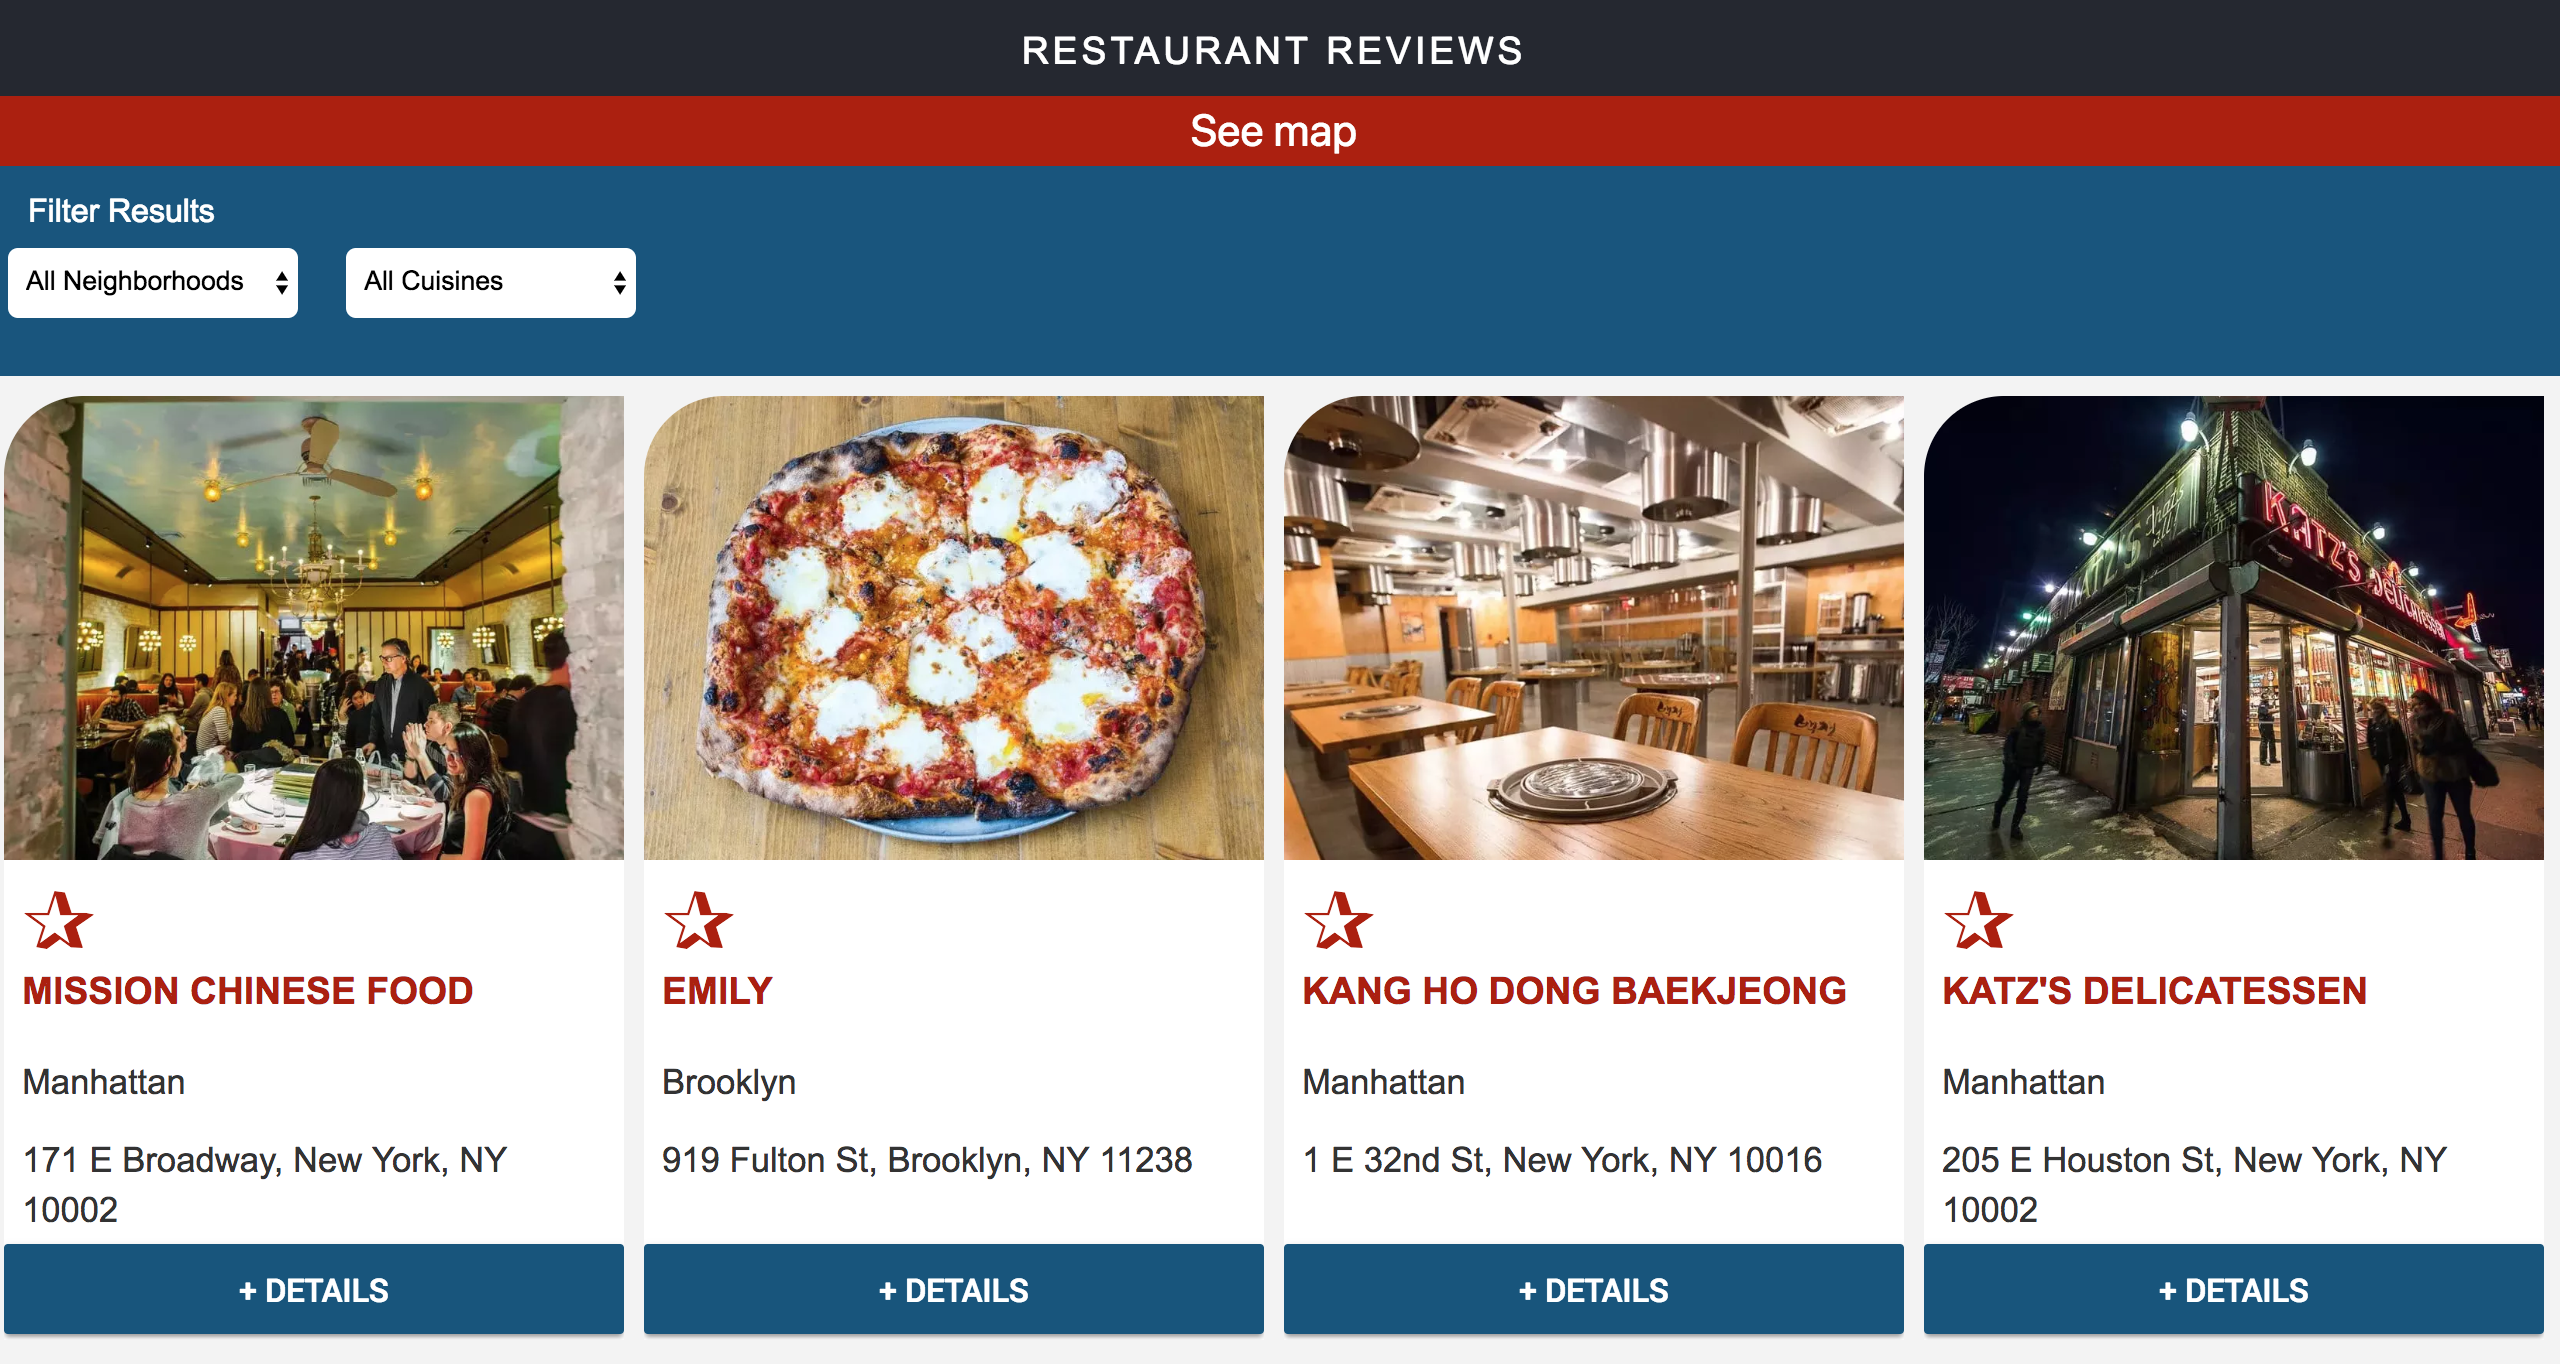
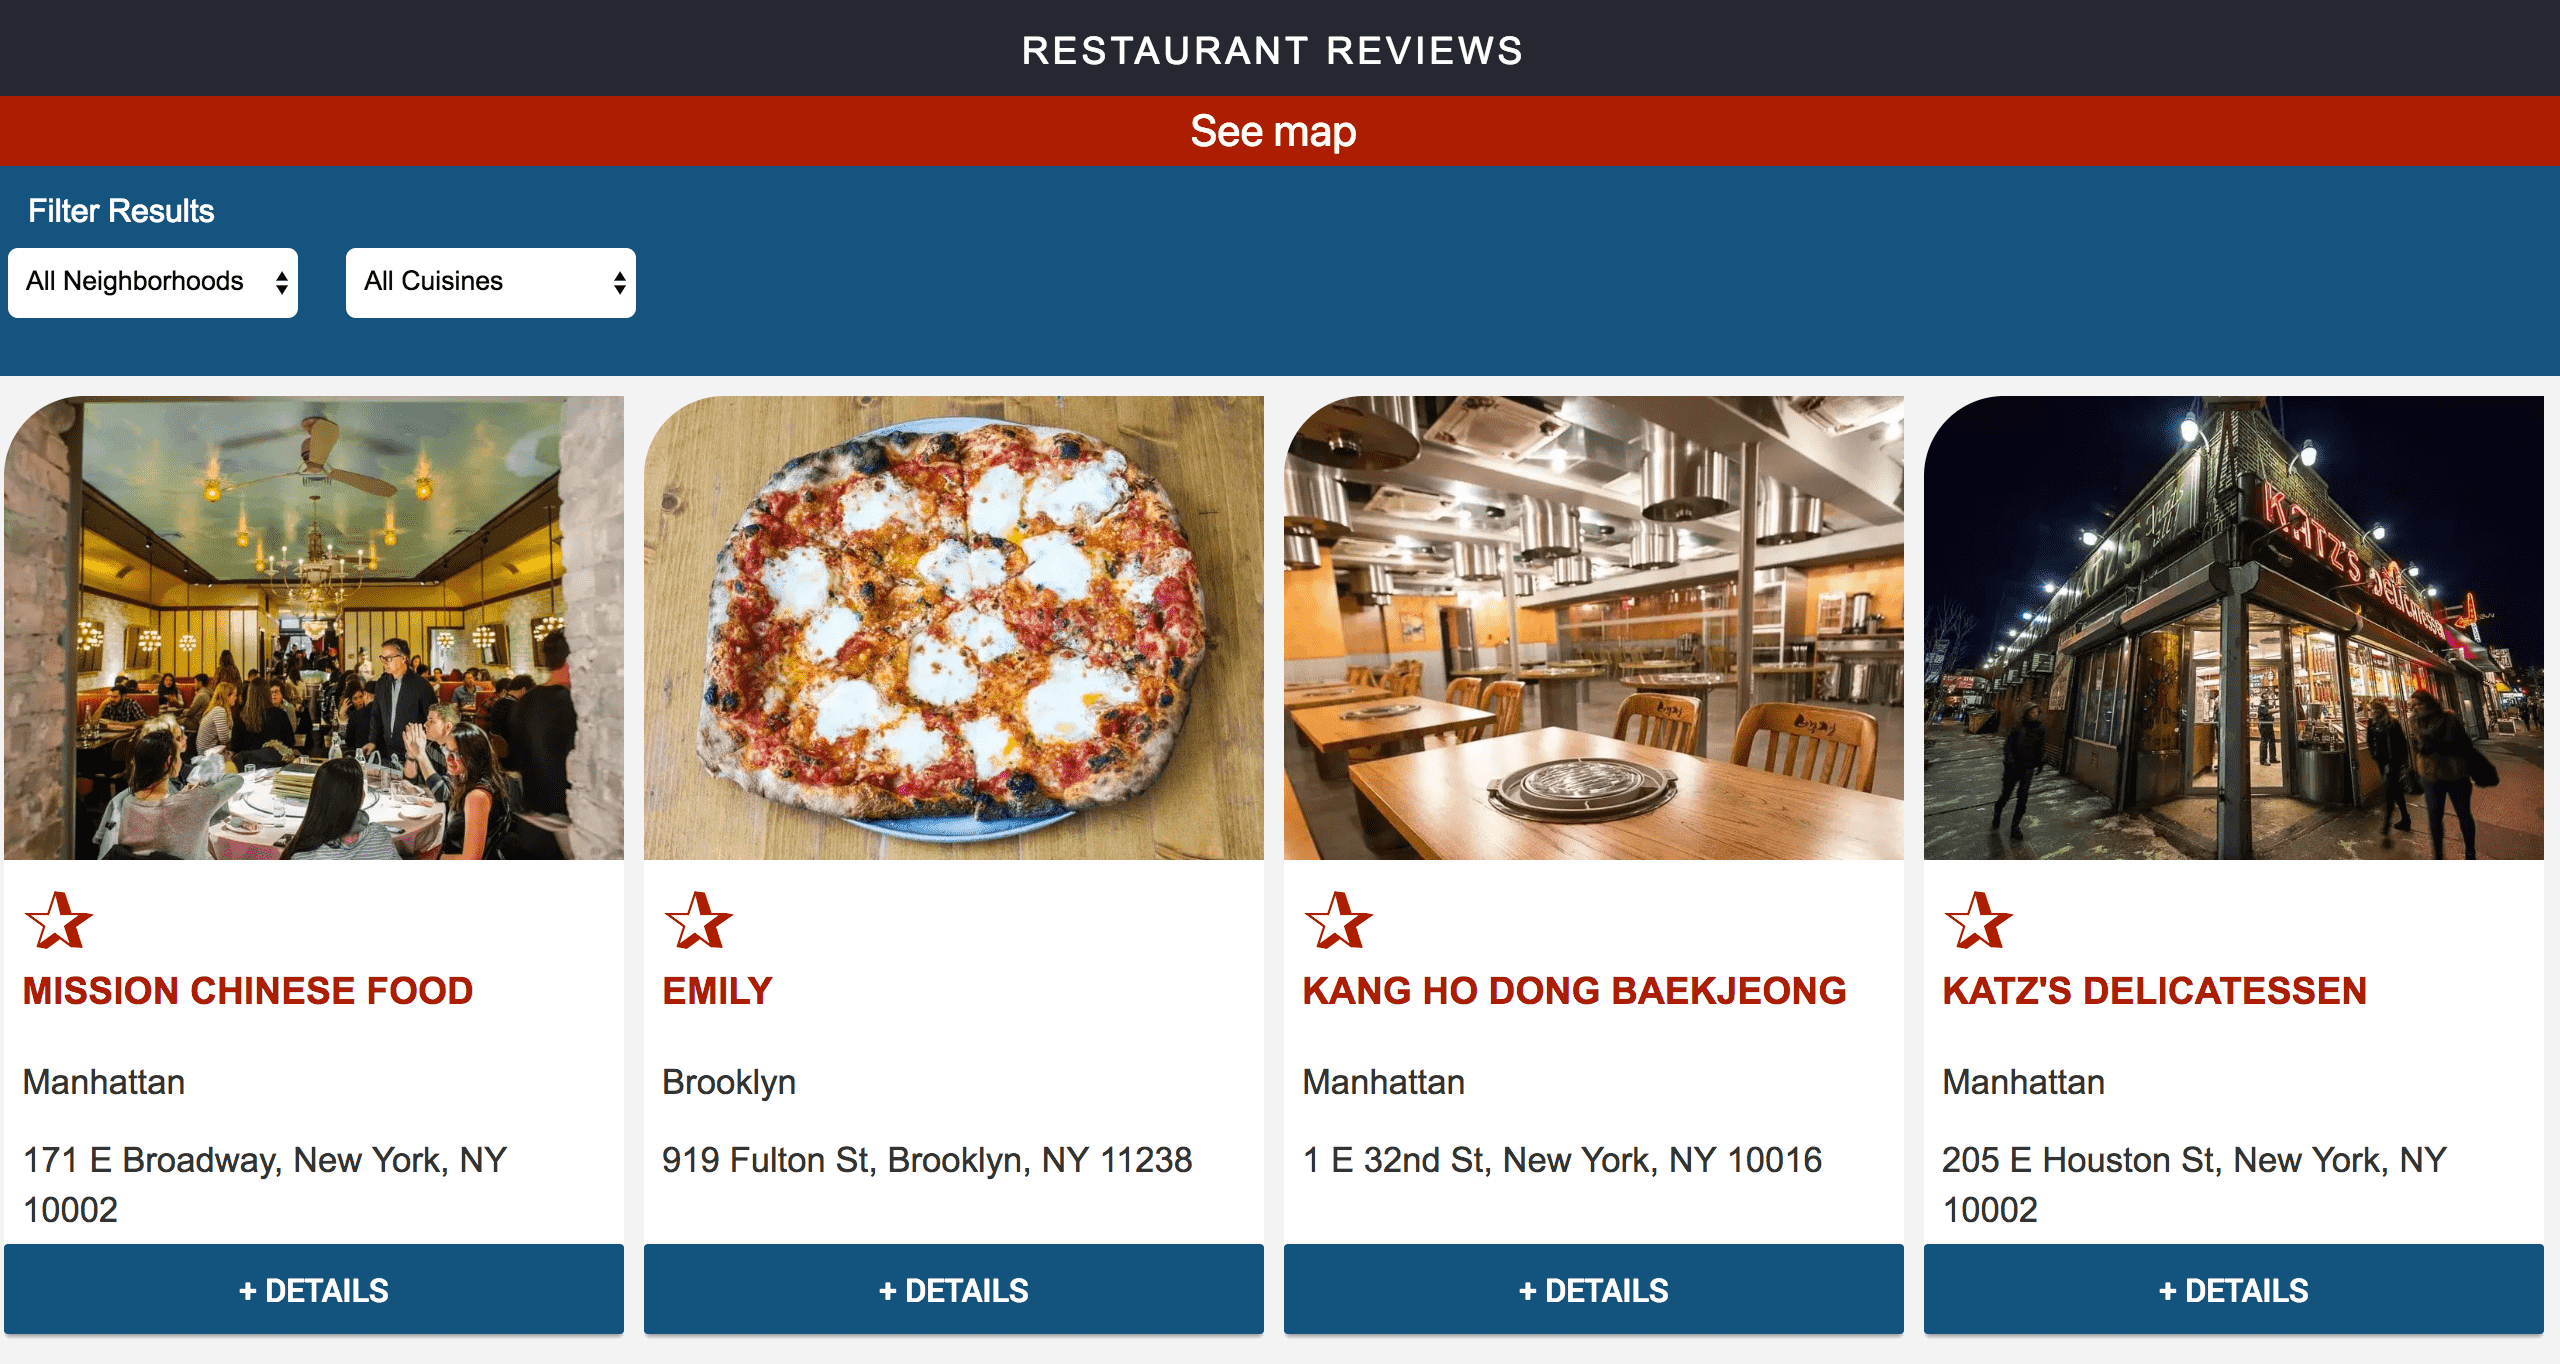
Codeowners and Images Optimization
update my name in codeowners
Optimisation of project Screenshots

diff --git a/README.md b/README.md
@@ -7,9 +7,6 @@ Users are allowed to create their own reviews for each restaurant and mark their
 
 
 The scores of this project in the Lighthouse audit are:
-Progressive Web App 99<br>
-Performance score 92<br>
-Accessibility 94<br>
 
 ![alt text](https://github.com/nnise/Restaurant-Reviews-MWS/blob/master/prjctImgs/Screen%20Shot%202018-08-22%20at%2022.46.16.png)
 
